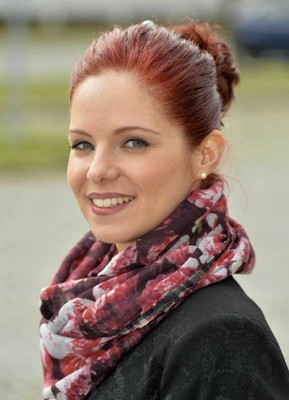
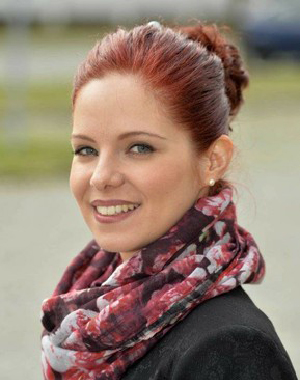
People cloud photos

diff --git a/_includes/people-cloud.html b/_includes/people-cloud.html
@@ -1,9 +1,10 @@
-<ul>
+<div class="row people-cloud pat-equaliser">
 	{% for person in site.posts %}
 		{% if item.title == person.parent %}
-			<li>
-				<a href="{{ person.url }}" class="pat-inject" data-pat-inject="source: #main-content; target: #{{ item.url | remove: '/' }}-content">{{ person.title }}</a>
-			</li>
+			<a  href="{{ person.url }}" class="pat-inject three columns" data-pat-inject="source: #main-content; target: #{{ item.url | remove: '/' }}-content" class="four columns">
+				<img src="{{ person.image }}" alt="{{ person.title }}" />
+				<h4 class="title">{{ person.title }}</h4>
+			</a>
 		{% endif %}
 	{% endfor %}
-</ul>
+</div>

diff --git a/_sass/_settings.scss b/_sass/_settings.scss
@@ -50,6 +50,7 @@ $base-font-size: 18px;
 @import "components/main";
 @import "components/main-content";
 @import "components/page-header";
+@import "components/people-cloud";
 @import "components/section-navigation";
 @import "components/site-header";
 @import "components/site-logo";

diff --git a/_sass/components/_people-cloud.scss b/_sass/components/_people-cloud.scss
@@ -1,0 +1,22 @@
+.people-cloud {
+	a {
+		text-decoration: none;
+		
+		img {
+			filter: grayscale(1);
+			transition: all 0.3s;
+		}
+
+		&:hover {
+			img {
+				filter: grayscale(0);
+			}
+		}
+
+		.title {
+			font-size: 0.8em;
+			line-height: 1.4;
+			color: gray;
+		}
+	}
+}
